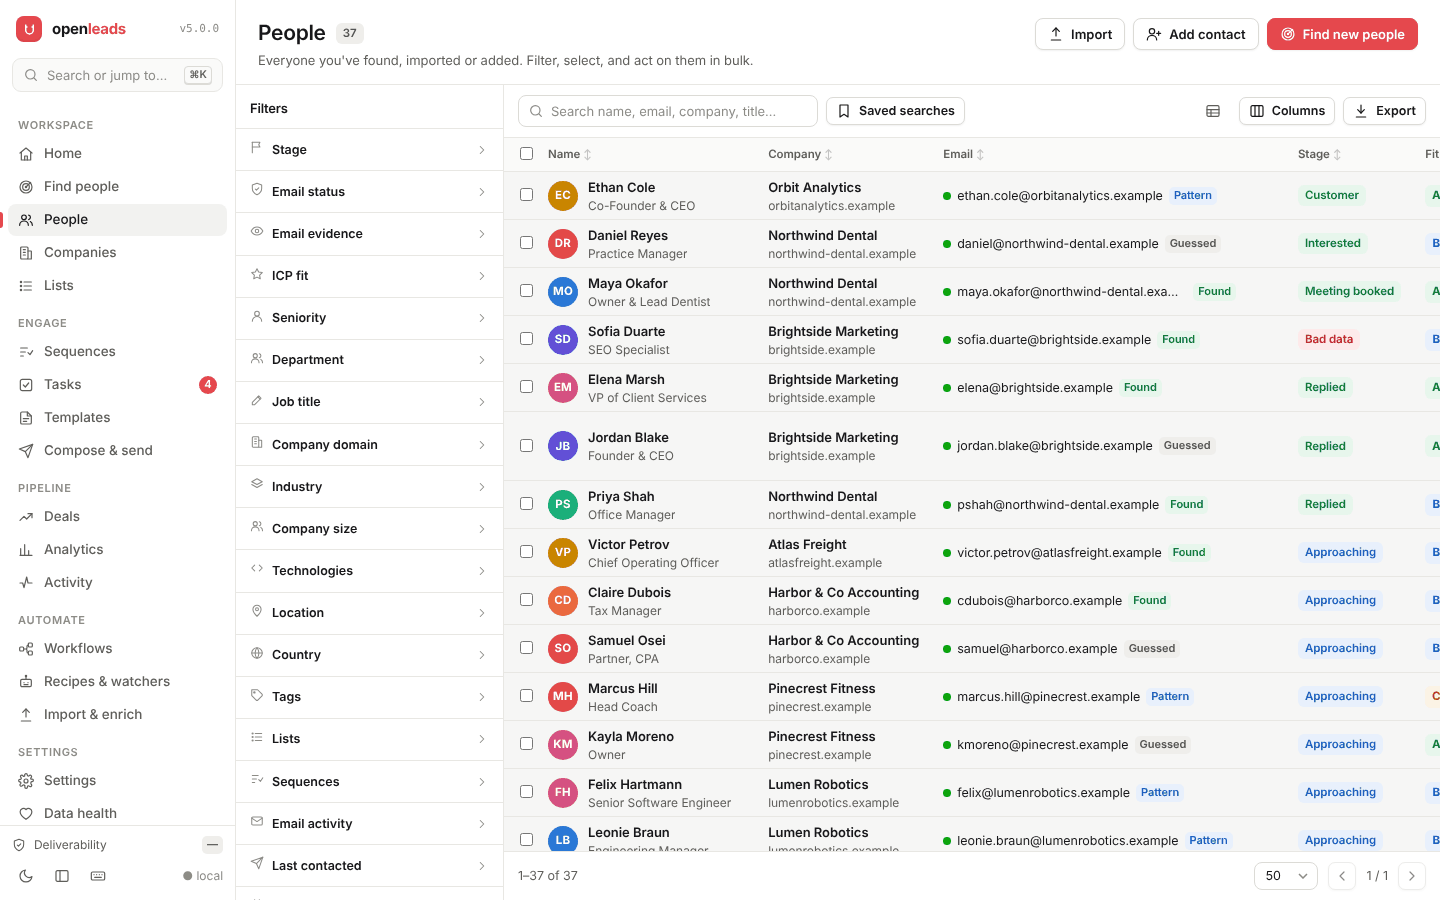
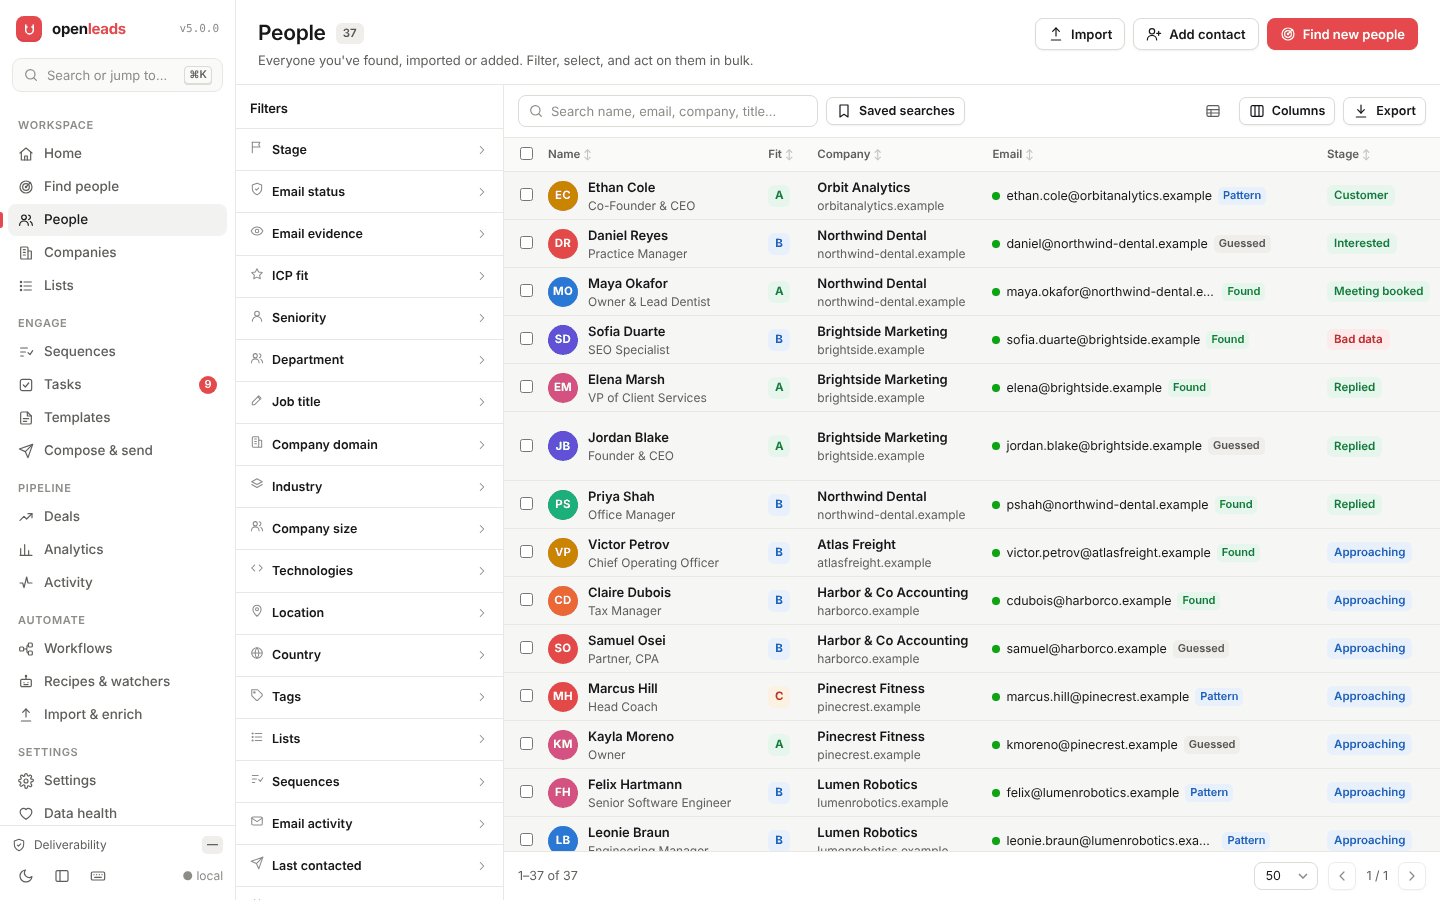
people: fit and stage columns first, so the deciding columns fit without scrolling
On a laptop screen with the filter sidebar open, Fit and Stage were off
the right edge. Narrow, decision-making columns now come before the wide
ones (fit, company, email, stage, last contacted, then location and
tags), and long addresses truncate a little sooner. README screenshot
refreshed.

Claude-Session: https://claude.ai/code/session_01XWZhpt2LHcpfxKxjvNeeeG

diff --git a/openleads/web/static/js/views/people.js b/openleads/web/static/js/views/people.js
@@ -45,18 +45,20 @@ const CFG = [
     options: [["", "Any"], ["yes", "Has a LinkedIn profile"], ["no", "No LinkedIn profile"]] },
 ];
 
+// Order = left to right. The narrow, decision-making columns (fit, stage) come
+// before the wide ones so they stay in view without scrolling.
 const COLUMNS = [
+  { key: "fit", label: "Fit", sort: "fit", def: true },
   { key: "company", label: "Company", sort: "organization", def: true },
   { key: "email", label: "Email", sort: "email", def: true },
   { key: "stage", label: "Stage", sort: "stage", def: true },
-  { key: "fit", label: "Fit", sort: "fit", def: true },
+  { key: "last_contacted", label: "Last contacted", sort: "last_contacted", def: true },
   { key: "seniority", label: "Seniority", sort: "seniority", def: false },
   { key: "department", label: "Department", def: false },
   { key: "location", label: "Location", sort: "location", def: true },
   { key: "phone", label: "Phone", def: false },
   { key: "tags", label: "Tags & lists", def: true },
   { key: "sequence", label: "Sequence", def: false },
-  { key: "last_contacted", label: "Last contacted", sort: "last_contacted", def: true },
   { key: "created", label: "Added", sort: "created", def: false },
   { key: "source", label: "Source", def: false },
 ];

diff --git a/openleads/web/static/styles.css b/openleads/web/static/styles.css
@@ -388,7 +388,7 @@ kbd { display: inline-grid; place-items: center; min-width: 18px; height: 18px; 
 .cell-person .name { font-weight: 600; display: block; overflow: hidden; text-overflow: ellipsis; white-space: nowrap; max-width: 240px; }
 .cell-person .sub { font-size: 12px; color: var(--muted); display: block; overflow: hidden; text-overflow: ellipsis; white-space: nowrap; max-width: 260px; }
 .cell-email { display: flex; align-items: center; gap: 6px; font-size: 12.5px; }
-.cell-email .addr { overflow: hidden; text-overflow: ellipsis; white-space: nowrap; max-width: 230px; }
+.cell-email .addr { overflow: hidden; text-overflow: ellipsis; white-space: nowrap; max-width: 210px; }
 .copy { opacity: 0; color: var(--faint); display: inline-grid; padding: 2px; border-radius: 4px; }
 tr:hover .copy, .copy:focus-visible { opacity: 1; }
 .copy:hover { color: var(--text); background: var(--panel-3); }
